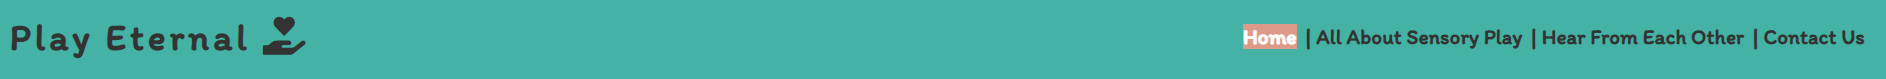
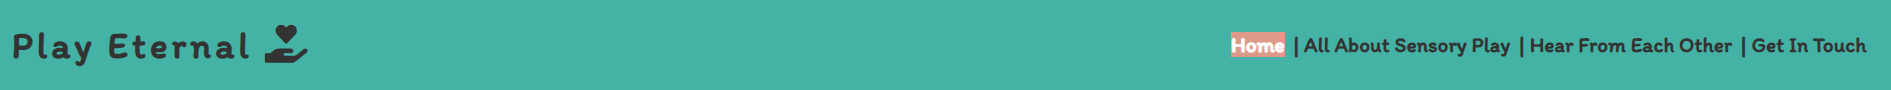
Add content to project-documents and ReadMe

Changed region(s): [[0.6458, 0.3038, 1.0, 0.6329], [0.0, 0.2278, 0.1845, 0.7342], [0.123, 0.6835, 0.1538, 0.7089]]

diff --git a/contact.html b/contact.html
@@ -39,7 +39,7 @@
                     </div>
                 </li>
                 <li><a href="feedback.html">Hear From Each Other</a></li>
-                <li><a href="javascript:void(0)" class="active">Contact Us</a></li>
+                <li><a href="javascript:void(0)" class="active">Get In Touch</a></li>
             </ul>
         </nav>
     </header>

diff --git a/feedback.html b/feedback.html
@@ -39,7 +39,7 @@
                     </div>
                 </li>
                 <li><a href="javascript:void(0)" class="active">Hear From Each Other</a></li>
-                <li><a href="contact.html">Contact Us</a></li>
+                <li><a href="contact.html">Get In Touch</a></li>
             </ul>
         </nav>
     </header>

diff --git a/about.html b/about.html
@@ -39,7 +39,7 @@
                     </div>
                 </li>
                 <li><a href="feedback.html">Hear From Each Other</a></li>
-                <li><a href="contact.html">Contact Us</a></li>
+                <li><a href="contact.html">Get In Touch</a></li>
             </ul>
         </nav>
     </header>

diff --git a/index.html b/index.html
@@ -39,7 +39,7 @@
                     </div>
                 </li>
                 <li><a href="feedback.html">Hear From Each Other</a></li>
-                <li><a href="contact.html">Contact Us</a></li>
+                <li><a href="contact.html">Get In Touch</a></li>
             </ul>
         </nav>
     </header>

diff --git a/README.md b/README.md
@@ -178,27 +178,27 @@ This site will be developed as a minimum viable product. Future releases could i
 
 1. Responsive interface
 2. Dropdown navigation
-3. Sticky Header
-4. Links to Social Media
+3. Sticky header
+4. Links to social media
 5. External links open on blank page
-6. Multi-Page Website
+6. Multi-page website
 7. Smooth scrolling on About page
 8. User controls for video
 9. Form for questions and feedback
 
 #### Content Requirements
 
-1. Provide information on Sensory Play
-2. Recommend Activities
+1. Provide information on sensory play
+2. Recommend activities
 3. How can it help with anxiety?
-4. Feedback and Recommendations page
+4. Feedback and recommendations page
 5. Relevant dynamic images across site
-6. Video on Sensory Play
-7. Relevant Icons used across site
+6. Video on sensory play
+7. Relevant icons used across site
 8. Visually appealing and easy to read fonts
 9. Well thought out dynamic colour scheme
 
-#### Current Delivery Constraints
+#### Delivery Constraints
 
 1. Skill - Developer is learning HTML and CSS which affects her efficiency and ability. This is also her first time developing a website
 2. Time - limited time to complete and deliver the site
@@ -248,10 +248,32 @@ I felt it was necessary to keep the pages clean and simple to prevent the user f
 5. <a href="https://raw.githubusercontent.com/Claire-Potter/Play-Eternal/master/project-documents/design-mock-ups/hear-from-each-other.png" target="_blank">Hear From Each Other</a>
 6. <a href="https://raw.githubusercontent.com/Claire-Potter/Play-Eternal/master/project-documents/design-mock-ups/get-in-touch.png" target="_blank">Get In Touch</a>
 
+### Design Differences
+
+1. The Home Page logo - Play Eternal - the icon utilised was chosen from Font Awesome and is not a child in a square as per the mock up.
+2. In the navigation bar - Contact Us was renamed Get In Touch for consistency with the page title.
+3. A sub-navigation menu for the All About Sensory Play page was included instead of featuring a second navigation on the page directly. This provides a more consistent navigation approach instead of creating an additional menu.
+4. The Learn More button colour was changed from orange to teal as visually it looked more appealing. The arrow icon was removed to keep the look clean and simple and to align with the look of the submit button.
+5. The All About Sensory Play page - the icons used are from Font Awesome and slightly different to those shown in the mock up.
+6. Originally it was planned to have a transparency applied to the colour background boxes, however it made the content more difficult to read and did not work as well as a solid background so this was changed.
+7. The tooltip was included on the help with anxiety page which was not in the mock up.
+8. The Hear From Each Other background colours are once again not transparent.
+9. The number of children question was removed from the form on the Get In Touch page, as a user would provide the children's ages in the question below and number of children can be deduced from there.
+
+### Design Breakdown
+
+Talk about sizes, colours choices etc -everything made in CSS.
+
 ## Technologies
+
+The following languages were used to create the website:
+
 1. HTML
 2. CSS
 3. JavaScript
+
+Libraries, frameworks and other technologies:
+
 
 # Features
 
@@ -269,33 +291,45 @@ The Play Eternal site consists of the following Features:
 
 ## Header
 
-![enter image description here](https://github.com/Claire-Potter/Play-Eternal/blob/master/project-documents/project-images/header.PNG?raw=true)
+![Header image](https://github.com/Claire-Potter/Play-Eternal/blob/master/project-documents/project-images/header.PNG?raw=true)
 The Header is consistent across all four site pages. It contains the site logo and the navigation bar. Its display setting is flex and the flex-direction is set as row. For ease of use the Header has been fixed and made sticky across all pages so that as the user scrolls, the navigation is still available. To ensure that the site is responsive the flex-direction is changed to column for smaller screen widths.
 For further information on the sticky navigation please click here.
 
-![enter image description here](https://github.com/Claire-Potter/Play-Eternal/blob/master/project-documents/project-images/header-sticky.PNG?raw=true)
+![Sticky Header image](https://github.com/Claire-Potter/Play-Eternal/blob/master/project-documents/project-images/sticky-nav.PNG?raw=true)
 
  - **Header Logo**
+
+![Header Logo image](https://github.com/Claire-Potter/Play-Eternal/blob/master/project-documents/project-images/header-logo.PNG?raw=true)
+
 	 - The logo is created using the Itim font from Google fonts with the letter spacing set at 3px and the hand holding heart icon from Font Awesome. It contains a link back to the home page as it is an expected behaviour that clicking the logo will take a user home.
 
 -   **Navigation Bar**
 
+![Navigation Bar image](https://github.com/Claire-Potter/Play-Eternal/blob/master/project-documents/project-images/navigation-bar.PNG?raw=true)
+
     -   The navigation bar is identical across all four pages to allow for easy navigation. 
     - The bar  includes the following:
 	    - The active page is highlighted with a different font colour and background colour.
-	    ![enter image description here](https://github.com/Claire-Potter/Play-Eternal/blob/master/project-documents/project-images/Navigation-Active.PNG?raw=true)
+ ![Navigation Active image](https://github.com/Claire-Potter/Play-Eternal/blob/master/project-documents/project-images/navigation-active.PNG?raw=true)
 	    - The All About Sensory Play includes a drop-down menu to the separate page sections as this is the longest page with the most content.
 	    - For further information on the drop-down please click here.
 	    
-	    ![enter image description here](https://github.com/Claire-Potter/Play-Eternal/blob/master/project-documents/project-images/Navigation-Dropdown.jpg?raw=true)
+ ![Navigation dropdown image](https://github.com/Claire-Potter/Play-Eternal/blob/master/project-documents/project-images/navigation-dropdown.jpg?raw=true)
     -   The navigation provides the user with the ability to navigate across all pages with ease.
 ## Footer
+
+![Footer image](https://github.com/Claire-Potter/Play-Eternal/blob/master/project-documents/project-images/footer.png?raw=true)
     
 The footer section is fixed to the bottom of the page and it includes a logo and social media icons. It is consistent across all four site pages.
  - **Footer Logo**
+
+ ![Footer Logo image](https://github.com/Claire-Potter/Play-Eternal/blob/master/project-documents/project-images/footer-logo.PNG?raw=true)
+
 	 - The logo is a smaller version of the Header logo but displayed vertically. Underneath the page copyright is included. Like the Header, it includes a link back to the home page as this is common for websites to do.
 	 
 -   **Social Media Icons**
+
+![Social Media Icons image](https://github.com/Claire-Potter/Play-Eternal/blob/master/project-documents/project-images/social-media-icons.PNG?raw=true)
 
     -   The Social Media Icons are grouped together and included on the right hand side of the footer as this is a common section for the icons to be located so the user can expect to find them there.
     - The Icons contain links to Facebook, Instagram and Twitter and the social media sites will open on individual pages so they do not take the user away from our site.
@@ -303,21 +337,39 @@ The footer section is fixed to the bottom of the page and it includes a logo and
 
 ## Home Page
 
+![Home Page image](https://github.com/Claire-Potter/Play-Eternal/blob/master/project-documents/project-images/home-page-site.PNG?raw=true)
+
+
 The Home Page has been created to include a Hero Image with a text box overlay. It has been kept simple with limited information, to create an invitation to the user to explore the rest of the site. It is like the cover of a book - inviting the user in to read/explore further.
  -   **The landing page image**
+![Home Page image](https://github.com/Claire-Potter/Play-Eternal/blob/master/assets/images/home-page.jpg?raw=true)
+
 		- The landing page image is a background image which is a photograph of a little girl playing with a hoop. The colours makes sense with the site colour scheme. The text area has been placed so that the little girl is looking directly at it, leading the user to read the information. The area is responsive and will resize. When the screen width is smaller, the image is replaced with a smaller image of a boy playing so that it fits and is clearly visible.
+
+![Home Page image small](https://github.com/Claire-Potter/Play-Eternal/blob/master/assets/images/home-page-smaller.jpg?raw=true)
 	
  -   **The Text Area**
+
+ ![Text Area Image](https://github.com/Claire-Potter/Play-Eternal/blob/master/project-documents/project-images/text-area.PNG?raw=true)
+
 		- The text area contains a call to action to parents, as our primary user, it provides description as to why they would need sensory play for their child and it then invites them to follow the learn more button to learn how to help their child. By utilising a call to action it entices the user to click to access the next page.
+
  -   **The Learn More Button**
+
+ ![Learn More Image](https://github.com/Claire-Potter/Play-Eternal/blob/master/project-documents/project-images/learn-more-button.PNG?raw=true)
+
 	 - The learn more button will take the user to the All About Sensory Play page. It is formatted to stand out within the text area and includes a button shadow when the user hovers over it to provide the feeling of pushing a button.
 
 	
 ## All About Sensory Play
+
+ ![All About Sensory Play Page](https://github.com/Claire-Potter/Play-Eternal/blob/master/project-documents/project-images/all-about-sensory-play.PNG?raw=true)
 	
 The All About Sensory Play page is the main content page of the site. It's purpose is to educate the user on what sensory play is, provide ideas on sensory play activities and explain how sensory play can assist with childhood anxiety. The page should encourage the user to pursue sensory play activities to see the benefit of including them to support their child's development. Our specific user has been seeking help for her child's anxiety, the help with anxiety section provides this. The page has been created as a continuous page with sections instead of separate pages as users are used to a continuous scroll action and it minimises the amounts of clicks required to access the site features. A scroll-behavior setting set to smooth has been added to the html in the CSS to improve the ease of scrolling.
 
  -   **What is Sensory Play ?**
+
+ ![What is Sensory Play Page](https://github.com/Claire-Potter/Play-Eternal/blob/master/project-documents/project-images/what-is-sensory-play.PNG?raw=true)
     
  	  -   This section provides a simple explanation of sensory play. It is important to keep the information concise and to the point to ensure the user does not lose interest and keeps on exploring.
   	  - Each sub-point of information has an individually coloured background. The colours are repeated across the site to create a concise experience.
@@ -326,12 +378,16 @@ The All About Sensory Play page is the main content page of the site. It's purpo
    	 -   This user will see the value of sensory play through this section as it provides understanding as well as making it relatable.
 
  -   **Play in Motion**
+
+  ![Play in Motion Page](https://github.com/Claire-Potter/Play-Eternal/blob/master/project-documents/project-images/play-in-motion.PNG?raw=true)
     
 	   -   This section includes a six minute video clip on sensory play and play ideas in the home.
   	  - It provides the user with the option to explore the information in a visual format. It is important for a user to engage with material in a format that they are comfortable with.
    	 -   The video is hosted on YouTube but play directly on the site. It can be enlarged to full screen.
 
  -   **Activities**
+
+  ![Activities Page](https://github.com/Claire-Potter/Play-Eternal/blob/master/project-documents/project-images/sensory-play-activities.PNG?raw=true)
     
 	   -   The Activities section introduces the user to the top ten recommended sensory play activities. All of the activities are very simple, easy and affordable to create at home.
   	  - The section adds value to the user as they will be able to use the information to create the activities in their own home without breaking the budget. 
@@ -339,6 +395,8 @@ The All About Sensory Play page is the main content page of the site. It's purpo
    	 - Three images are included alongside the activities to provide some colour and display of sensory play.
 
  -   **Help with Anxiety**
+
+  ![Help with Anxiety Page](https://github.com/Claire-Potter/Play-Eternal/blob/master/project-documents/project-images/help-with-anxiety.PNG?raw=true)
     
  	  -   This page section directly answers our user's need for help with childhood anxiety.
  	   - It includes a brief explanation of what childhood anxiety might look like and what a parent can do to help.
@@ -347,20 +405,35 @@ The All About Sensory Play page is the main content page of the site. It's purpo
 	    - As there is a lot of written information on the page, the anxiety activities section is presented as a compact grid of  six images with an image caption providing the activity name.
  	   - By simply hovering over the image caption, a tool-tip pop-up provides a description of the activity. The user will be prompted to hover as the image caption has a dotted underline, which is commonly used to show tool-tips and familiar to users.
   	  - For further information on the tool-tip please click here.
+
+![Anxiety Tooltip](https://github.com/Claire-Potter/Play-Eternal/blob/master/project-documents/project-images/anxiety-tooltip.PNG?raw=true)
  
  ## Hear from Each Other
+
+![Hear From Each Other Page](https://github.com/Claire-Potter/Play-Eternal/blob/master/project-documents/project-images/hear-from-each-other.PNG?raw=true)
+
  The Hear from Each Other section provides the user with the opportunity to hear from other parents, teachers and occupational therapists. It is important for the user to receive positive affirmation regarding sensory play directly from other users of the site.
  
  -   **Feedback**
 
+ ![Feedback Section](https://github.com/Claire-Potter/Play-Eternal/blob/master/project-documents/project-images/feedback.PNG?raw=true)
+
 	 - The feedback section contains four individual feedback write ups. Each person has a profile picture and a heading with their name, children's ages or their role (for the teachers or occupational therapist). It is important for the user to build confidence in sensory play through reading the encouraging and positive feedback.
  -   **Recommendations**
+
+![Recommendations Section](https://github.com/Claire-Potter/Play-Eternal/blob/master/project-documents/project-images/recommendations.PNG?raw=true)
+
 
 	 - The recommendation section mirrors the feedback section in its setup for consistency. It is important for parents and experts to be able to vocalise their own recommendations and for a user to be able to read them and use their suggestions or come up with their own own creative sensory play. 
  
  ## Get In Touch
+
+![Get In Touch Page](https://github.com/Claire-Potter/Play-Eternal/blob/master/project-documents/project-images/get-in-touch.PNG?raw=true)
+
  The get in touch section provides the user with the ability to contact the site owners. There is a background image of a little boy happily engaging in sensory play in his sand pit. It evokes a sense of accomplishment by reinforcing that sensory play can be easily implemented at home and benefit your child. It reflects the setup of the home page, like the back cover of a book, letting the user know they have reached the end of the site content.
  -  **Form**
+
+ ![Form](https://github.com/Claire-Potter/Play-Eternal/blob/master/project-documents/project-images/form.PNG?raw=true)
 
 	 - The form is added as an overlay on the background image to reflect the text area on the front page. 
 	 - The form layout and display is kept as simple as possible to convey the message to the user that it is simple and easy to complete.
@@ -379,6 +452,64 @@ The All About Sensory Play page is the main content page of the site. It's purpo
 - As this is the first release of the site, the chat page was not included in the implementation due to its complexities. Rather, a simplified version in the form of a Feedback and Recommendations page.
 	- The implementation of the chat page would depend on the page traffic generated by the live site and the level of interaction received from the users would help to deem its feasibility.
 
+# Testing
+
+Introduction
+
+Bugs
+
+User Stories
+
+Features Testing
+
+Responsiveness and Compatibility
+
+Safari, Chrome, Firefox, Edge, Opera
+
+Devices and Screen Sizes
+
+W3C HTML Code Validator
+
+W3C CSS Jigsaw Validator
+
+Testing Accessibility
+
+Testing Performance with Google Lighthouse
+
+Peer Code Review
+
+# Deployment
+
+## Development Interface
+
+This website was developed on Gitpod using the Code Institute student template with changes frequently committed to git then pushed onto GitHub from the Gitpod terminal.
+
+The deployed version of the website is the master.
+
+## Page Deployment
+
+The website was deployed on GitHub using the following steps:
+
+1. Log onto GitHub
+2. Go to the “repositories” section
+3. Click on the repository:
+4. Once in the repository, click on "settings" located in the right handside of the menu on top of the repository
+5. Click on “Pages” located in the left handside menu
+6. Under “Source”, select “Master” in the first tab
+7. In the next tab, select “/root” if not already selected by default
+8. Click “Save” and the url should be displayed above the "source" section
+9. Now that the link is displayed, the website is deployed and can be accessed in the browser by clicking on the url
+deployment
+
+
+# References
+
+## Code
+
+## Content
+
+## Media
 
 
 
+# Acknowledgements
